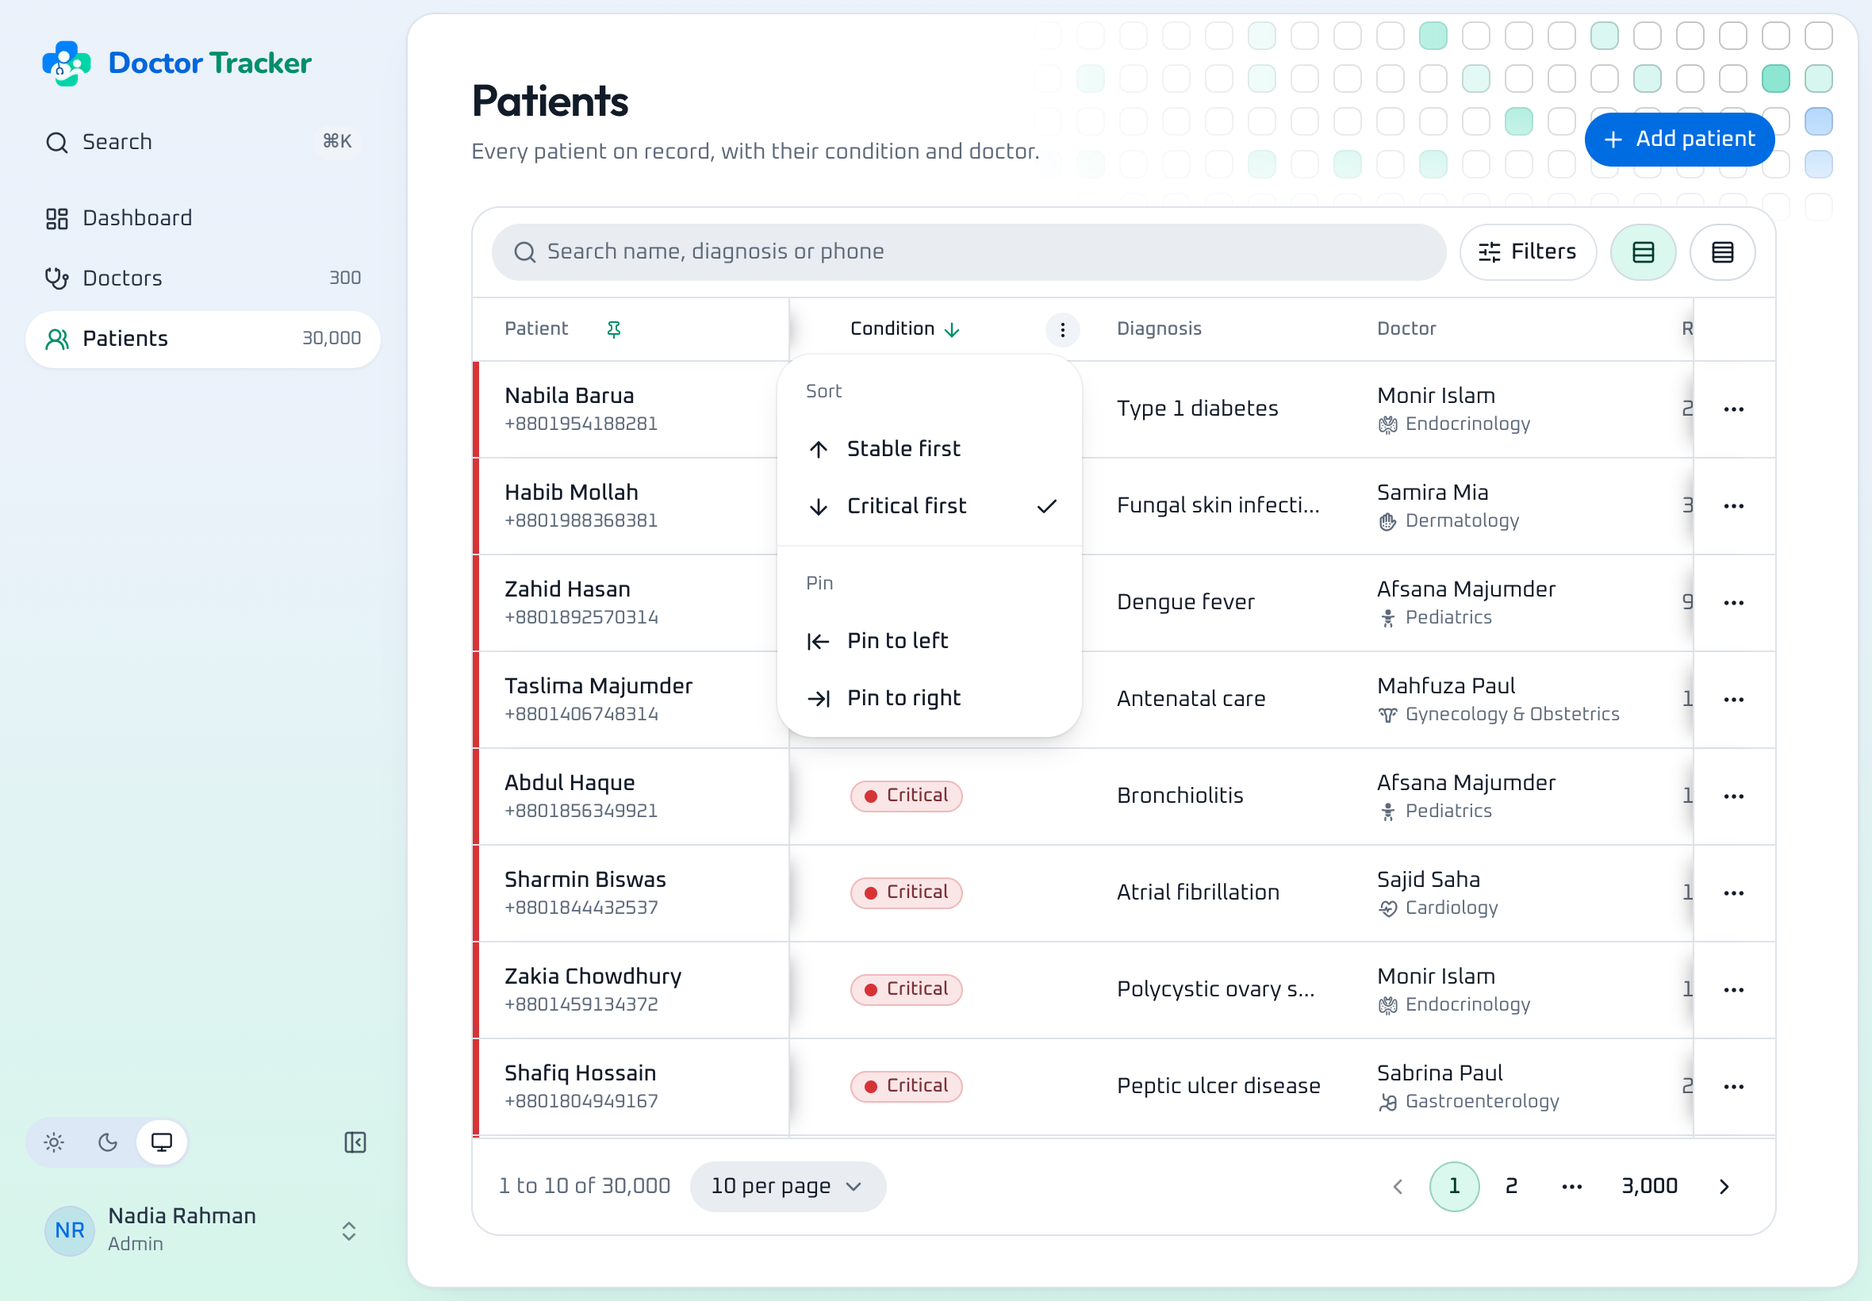
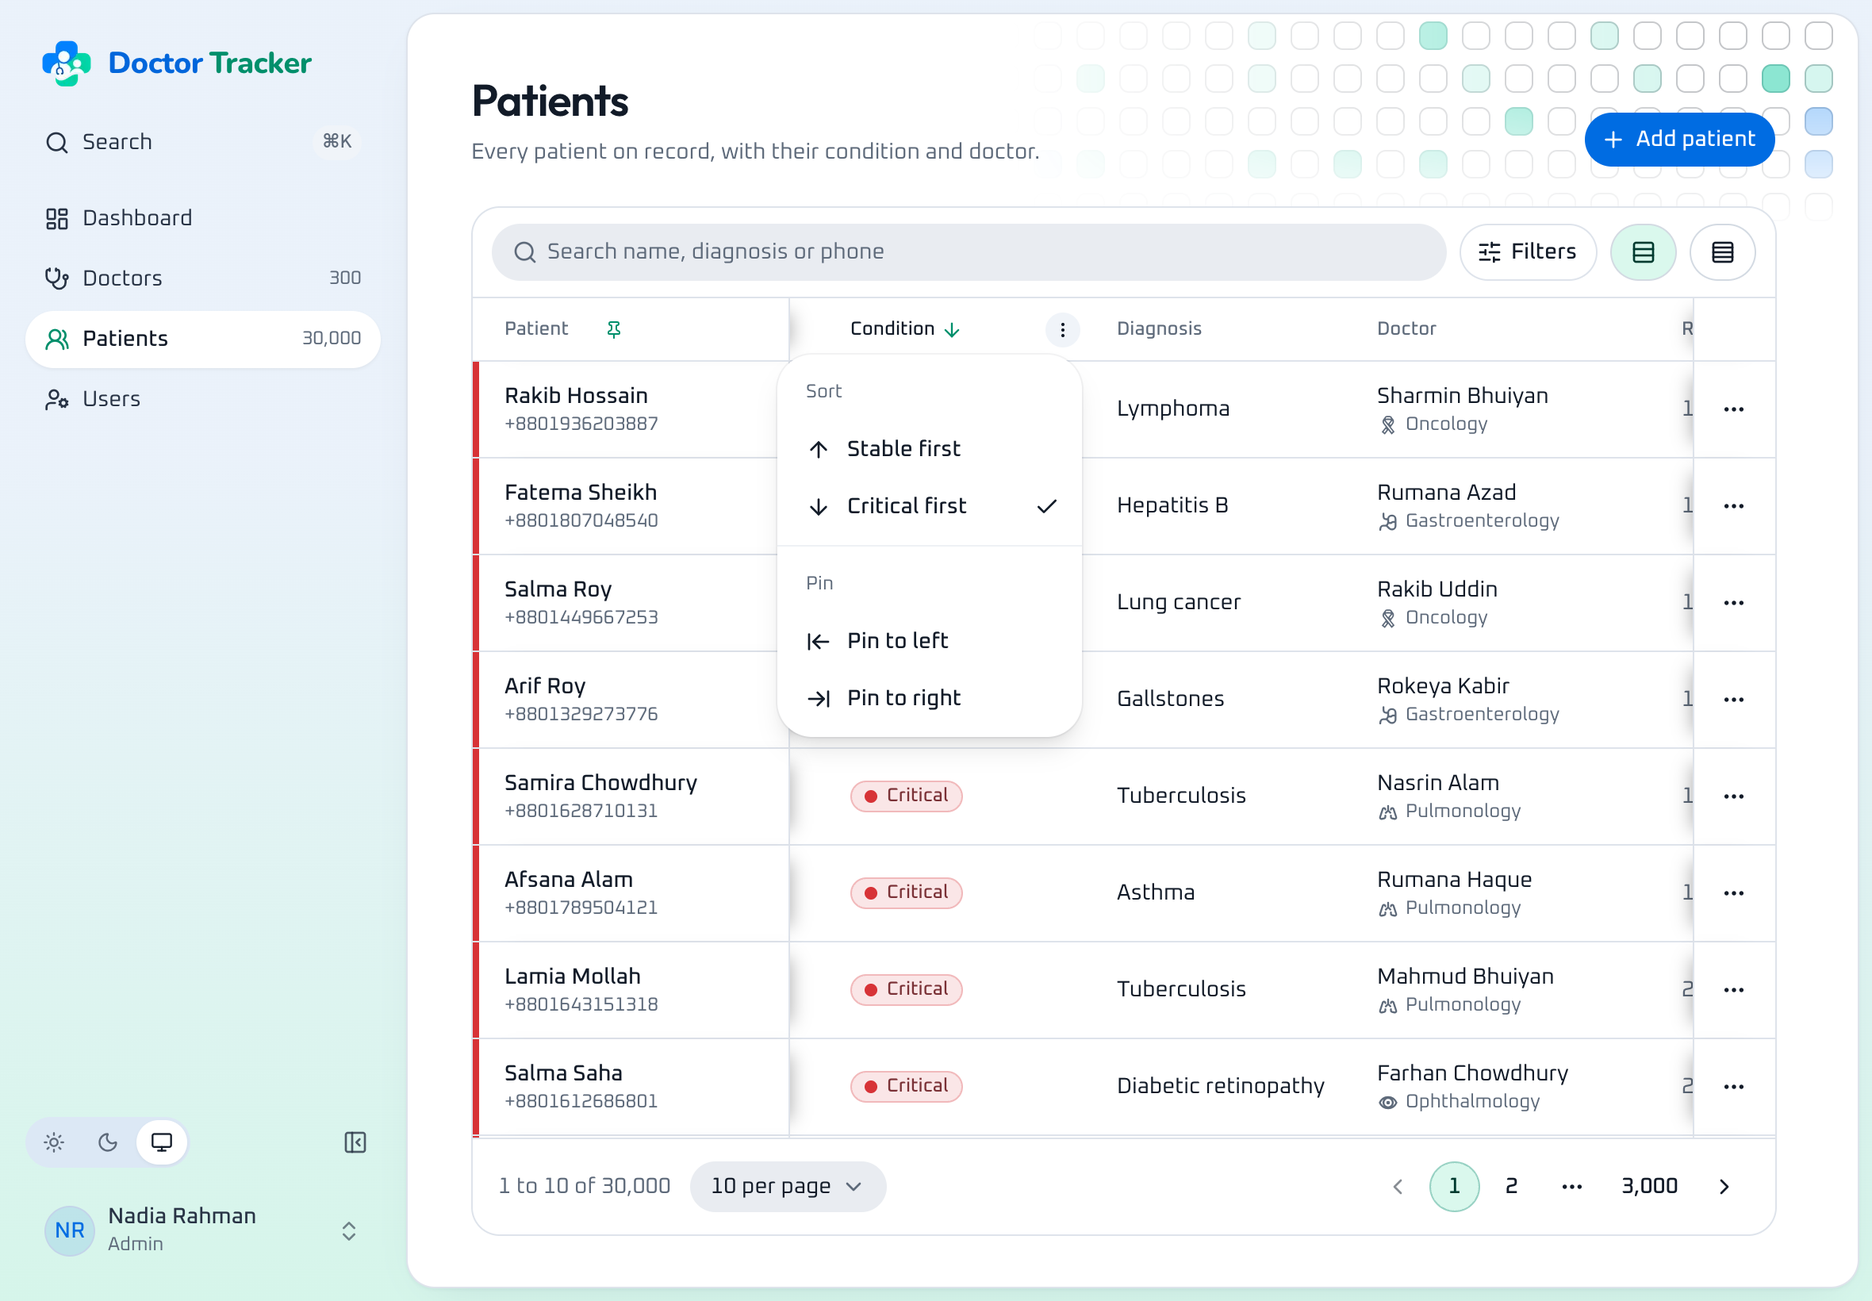
docs: cover user management, the coverage matrix, diagnoses, seasonal illness and what comes next, with new screenshots

diff --git a/README.md b/README.md
@@ -4,11 +4,12 @@ Doctor Tracker is an admin portal for clinics that need to see, at a glance, who
 
 | Area | What is there |
 | --- | --- |
-| Sign-in and access | Email and password against the API's sessions. Every page behind sign-in is protected. Admins can change records; viewers can only read, and the add, edit and delete controls are not rendered for them. |
+| Sign-in and access | Email and password against the API's sessions. Every page behind sign-in is protected. Admins can change records; viewers can only read, and the add, edit and delete controls are not rendered for them. There is no public sign-up and no demo account in the code. |
+| Users | For admins only: add a user with a role and an initial password, edit name and role, reset a password, deactivate, reactivate and delete. Everyone can change their own password. |
 | Doctors | Add, edit and delete. Search by name, hospital, phone or email. Filter by specialization, hospital and date added. Sort by name, specialization, hospital, patient count or date added. Each row shows the doctor's patient count beside its split by condition. |
 | A doctor's page | Contact details, three charts about that doctor's patients, and their patient list with its own search, filters and sorting. Add a patient under the doctor, edit one, or delete one from the list. |
 | Patients | Every patient, with search by name, diagnosis or phone, filters for condition, gender, doctor and registration date, sorting (including by severity), paging, edit and delete. |
-| Dashboard | Totals, patients per doctor, the condition breakdown, how evenly the load is spread, where the critical patients are, registrations over time and by weekday and hour, age and gender. |
+| Dashboard | Totals, patients per doctor, the condition breakdown, how evenly the load is spread, which hospitals lack which specialists, where the critical patients are, registrations over time and by weekday and hour with public holidays marked, the most common diagnoses, seasonal illness against last year, age and gender. |
 | Everywhere | A command palette on `⌘K` / `Ctrl K`, live doctor and patient counts in the sidebar, light and dark themes, and layouts for phone, tablet and desktop. |
 
 ## Stack
@@ -38,12 +39,12 @@ cp .env.example .env.local
 pnpm dev
 ```
 
-Open `http://localhost:3000` and sign in. The sign-in page has buttons that fill in either demo account:
+Open `http://localhost:3000` and sign in with the admin account the API's seed created from your own `SEED_ADMIN_EMAIL` and `SEED_ADMIN_PASSWORD`. No account or password is published in either repository; for the hosted demo they are in the submission email. From there, add anyone else on the Users page.
 
-| Role | Email | Password | Can do |
-| --- | --- | --- | --- |
-| Admin | `admin@doctortracker.dev` | `Admin@12345` | Everything |
-| Viewer | `viewer@doctortracker.dev` | `Viewer@12345` | Read only; add, edit and delete controls are hidden |
+| Role | Can do |
+| --- | --- |
+| Admin | Everything, including adding and managing users |
+| Viewer | Read only; add, edit and delete controls are hidden, and the Users page does not exist for them |
 
 ### Environment variables
 
@@ -108,9 +109,10 @@ src/
       dashboard/           Analytics
       doctors/             List, and [id] for a doctor's profile and patients
       patients/            List
+      users/               Accounts, for admins
   proxy.ts                 Redirects signed-out visitors
   features/
-    auth/ doctors/ patients/ dashboard/
+    auth/ doctors/ patients/ dashboard/ users/
                            Each holds its queries, URL params, form schema and components
     search/                Command palette: frame, lazily loaded body, search hook
   components/
@@ -165,7 +167,7 @@ After that the browser owns the data, so filtering and paging are client-side fe
 Three details made this work correctly:
 
 - **Session reads are kept out of the layout.** An early version looked up the user at the top of the signed-in layout. That made the entire shell wait for the session, left the prerendered page empty, and produced a server warning on every request. The user menu and the admin-only buttons now each sit in their own small boundary, and the shell is static again. The production build lists every signed-in route as partially prerendered.
-- **Time-zone-dependent requests stay in the browser.** A date filter means "the visitor's days", and the dashboard's daily chart and arrival heatmap group by the visitor's time zone, which the server cannot know. Those requests are skipped on the server and fetched after load, rather than being fetched twice with different parameters. On the dashboard they also wait until their section is within a screen of the viewport, so on a laptop screen the dashboard opens without a single API call from the browser, and the last two arrive as someone scrolls towards them.
+- **Time-zone-dependent requests stay in the browser.** A date filter means "the visitor's days", and the dashboard's daily chart, arrival heatmap and seasonal charts group by the visitor's time zone, which the server cannot know. Those requests are skipped on the server and fetched after load, rather than being fetched twice with different parameters. On the dashboard they also wait until their section is within a screen of the viewport, so opening it costs the browser one small request, for the sidebar's counts, and the rest arrive as someone scrolls towards them.
 - **Nothing shifts when the data lands.** The page panel reserves its scrollbar gutter, and skeletons are sized to the finished content, so a list that grows past the fold does not push the layout sideways.
 
 The trade-off is more moving parts than a client-only app: query keys must match exactly between server and browser, so both build their request through the same function (`toDoctorQuery`, `toPatientQuery`).
@@ -192,26 +194,51 @@ The trade-off is more moving parts than a client-only app: query keys must match
 **Charts**
 
 - **Each one answers a question, and says the answer.** The description under a chart's title is a sentence computed from the data, for example "Half of the 300 doctors have 63 patients or fewer, while the busiest tenth have 270 or more each." The chart is the evidence, not a puzzle.
-- **The form follows the question.** A distribution is a histogram with the median and 90th percentile marked. Parts of a whole are one segmented bar. A ranking is a sorted bar list. Two dimensions of time, weekday and hour, are a heatmap. There are no pie charts, because comparing angles is harder than comparing lengths.
+- **The form follows the question.** A distribution is a histogram with the median and 90th percentile marked. Parts of a whole are one segmented bar. A ranking is a sorted bar list. Two dimensions, weekday and hour or hospital and specialization, are a grid of cells. There are no pie charts, because comparing angles is harder than comparing lengths.
+- **Gaps are drawn, not left out.** The coverage matrix has a cell for every hospital and specialization. A pair with no doctor is a dashed empty cell, so a missing specialist is something you see rather than something you have to notice is absent. On a phone the grid would be unreadable, so each hospital becomes a strip of cells with its missing specializations named in words.
+- **A season is compared with itself.** The seasonal charts put this year's months over last year's for dengue, diarrhoeal disease and winter chest illness, with the usual season shaded. Only whole months are compared, the month still running is dashed, and the section states how much all intake grew, because a line that is up 20% in a clinic that grew 20% is not an outbreak.
+- **A dip has a reason.** Public holidays in Bangladesh are shaded on the daily registrations chart, with the average on those days against ordinary working days, so Eid is not read as a problem.
+- **Every mark leads somewhere.** A matrix cell opens the doctors at that hospital in that specialization, a diagnosis opens its patients, a bar opens the doctor. The dashboard is the way into the lists, not a poster.
 - **Colour means condition, and nothing else.** Green, violet, amber and red are reserved for the four patient conditions wherever they appear: badges, row edges, bars, form controls. Every other mark is one blue. The four colours were checked for separation under the common forms of colour blindness and for contrast in both themes, and no chart relies on colour alone.
 - **Comparable by design.** In the condition mix, critical is always the last segment, so the red ends line up down the rows, and a hairline on each bar marks the clinic-wide critical share to compare against.
-- **Usable without a pointer.** Marks have keyboard focus and tooltips, the heatmap and histograms move with the arrow keys from a single tab stop, and the condition mix and heatmap can each be opened as a plain table.
+- **Usable without a pointer.** Marks have keyboard focus and tooltips, the heatmap, matrix and histograms move with the arrow keys from a single tab stop, and the dense charts can each be opened as a plain table.
 - **Local conventions.** The heatmap's week starts on Sunday, as the working week does in Bangladesh, and hours are in the visitor's time zone.
 
 **Look and layout**
 
 - **The theme comes from the logo.** Its blue and mint are the two brand colours, each with a light-theme and a dark-theme shade chosen for contrast, and the wordmark is set in the same two colours.
-- **Blue acts, mint marks.** Each brand colour has one job. Blue is for actions, focus and data: buttons, links, focus rings and chart marks. Mint is for state: what is selected (a toggle, the current page, the active sort), what is highlighted (the item under the pointer in a menu or the command palette), filter chips and tags, and a rise in a trend. Mint is kept out of the charts on purpose: darkened enough to read on white, it lands on the green that means "stable".
+- **Blue acts, mint marks.** Each brand colour has one job. Blue is for actions, focus and data: buttons, links, focus rings and chart marks. Mint is for state: what is selected (a toggle, the current page, the active sort), what is highlighted (the item under the pointer in a menu or the command palette), and filter chips and tags. Mint is kept out of the charts on purpose: darkened enough to read on white, it lands on the green that means "stable".
 - **An inset shell.** The sidebar sits on a tinted plane that runs from the logo's blue at the top to its mint at the bottom, and the page is one rounded panel beside it, with no top bar on desktop. Search, theme and the collapse control live in the sidebar.
 - **An icon for every specialization.** All fifteen come from one family, Health Icons (CC0), in its outline set drawn for 24 px, so they match each other and sit beside the interface's own icons. Only the glyphs in use are in the code, not the whole library, and a specialization the set does not know falls back to a plain medical cross.
 - **Each page has its own header artwork**, drawn in SVG from the logo's cross: a heartbeat trace on the dashboard, a field of crosses for doctors, a ward board for patients. It is part of the prerendered shell and downloads nothing.
+- **The sign-in panel moves, quietly.** Rings leave the logo and drift outward like ripples, in a loop with no visible restart. It is CSS only, so the page stays static, and anyone who asks their system for reduced motion gets the still version.
 - **On phones** the sidebar becomes a drawer, and a top bar holds the menu button, the logo and the page's main action, so "Add patient" is always one tap away.
+
+**Accounts**
+
+- **No demo logins.** The sign-in page has no shortcut buttons and neither repository contains a password. The first admin comes from the API's environment, and every other account is made on the Users page.
+- **A password is handed over once.** Adding a user or resetting a password ends on a hand-over step: the email and the password, masked, each with a copy button, and a reminder that it will not be shown again. The password field can generate a strong one.
+- **You cannot lock yourself out.** On your own row, reset, deactivate and delete stay visible but disabled, each with its reason, and your own role cannot be changed. Because only another admin can remove an admin, one active admin always remains. The API enforces the same rules; the interface only explains them.
+- **Changes to access take effect at once.** Deactivating someone, changing their role or resetting their password ends their sessions, so their next request is refused rather than their next sign-in.
+- **The Users link costs the shell nothing.** It is rendered on the server in its own small boundary for admins, like the admin-only buttons, so the sidebar stays prerendered and nothing shifts when it arrives.
 
 **Smaller choices**
 
 - **Generated API client.** Request and response types come from the API's OpenAPI document, so the two repositories cannot drift apart silently. Form schemas are hand-written for friendly messages but checked against the generated types with `satisfies`.
 - **API errors land on fields.** A validation error from the API is shown under the input it refers to, and a duplicate email is reported on the email field.
 - **Missing records and failed loads have their own screens**, each with a way back, so a stale link never ends in a blank page.
+
+## What comes next
+
+The brief fixes the data model at doctors and the patients under them, and this project stays inside it. A clinic in Bangladesh has more moving parts, and this is how the model would grow to hold them:
+
+- **Serials and consultations.** A patient books a serial for a consultant's chamber, is seen, and usually comes back with reports. That is a `visits` collection (patient, doctor, chamber, serial, time, new or follow-up), and it unlocks the charts this dashboard cannot honestly draw yet: slot utilisation, no-shows, waiting time, the booked-to-consulted funnel.
+- **Orders and results.** Prescriptions and diagnostic tests hang off a visit, and the follow-up visit closes the loop, which makes follow-up adherence a number.
+- **Admissions.** Condition today is one field on the patient. With admissions (ward, bed, ICU, NICU or HDU, admitted and discharged times), "critical" stops being a label and becomes occupancy per unit, the number a hospital actually runs on.
+- **Chambers.** Most consultants sit at two or three hospitals. A doctor would have several chambers instead of one hospital field, and coverage would count chamber hours, not heads.
+- **Where patients come from.** A district on the patient record is enough for a map of who travels to Dhaka or Chattogram, and for which specialty.
+
+None of this changes what is already here: each new collection points at the same doctors and patients, and the lists, search and indexes carry over.
 
 ## Visual evidence
 
@@ -221,35 +248,43 @@ The trade-off is more moving parts than a client-only app: query keys must match
 | --- | --- |
 | ![Patients in care, split by condition, with totals](docs/screenshots/desktop-dashboard.png) | ![Histogram of patients per doctor beside the busiest doctors](docs/screenshots/desktop-dashboard-workload.png) |
 
-| Arrivals | Critical patients, dark theme |
+| Specialist coverage | Critical patients, dark theme |
 | --- | --- |
-| ![Daily registrations and a weekday by hour heatmap](docs/screenshots/desktop-dashboard-arrivals.png) | ![Condition mix by specialization in the dark theme](docs/screenshots/desktop-dashboard-dark.png) |
+| ![Hospitals by specialization, with empty cells where a hospital has no such doctor](docs/screenshots/desktop-dashboard-coverage.png) | ![Condition mix by specialization in the dark theme](docs/screenshots/desktop-dashboard-dark.png) |
 
-| Doctors, sorted by patients | Doctor profile |
+| Arrivals, with holidays shaded | Seasonal illness |
 | --- | --- |
-| ![Doctors list with patient counts and condition bars](docs/screenshots/desktop-doctors.png) | ![A doctor's charts and patient list](docs/screenshots/desktop-doctor-profile.png) |
+| ![Daily registrations with a public holiday shaded, and a weekday by hour heatmap](docs/screenshots/desktop-dashboard-arrivals.png) | ![Dengue, diarrhoeal and winter chest illness, this year against last](docs/screenshots/desktop-dashboard-seasonal.png) |
 
-| Patients, critical first | Filter sheet |
+| What we treat | Doctor profile |
 | --- | --- |
-| ![Patients list sorted by severity with coloured row edges](docs/screenshots/desktop-patients.png) | ![Filters in a sheet beside the list, with chips for the active ones](docs/screenshots/desktop-filters.png) |
+| ![Most common diagnoses and the ones arriving now](docs/screenshots/desktop-dashboard-diagnoses.png) | ![A doctor's charts, diagnoses and patient list](docs/screenshots/desktop-doctor-profile.png) |
 
-| Sorting and pinning | Right-click menu |
+| Doctors, sorted by patients | Patients, critical first |
 | --- | --- |
-| ![Column menu with sort and pin options over a table scrolled sideways](docs/screenshots/desktop-patients-pinned.png) | ![A row's actions opened by right click](docs/screenshots/desktop-patients-context-menu.png) |
+| ![Doctors list with specialization icons, patient counts and condition bars](docs/screenshots/desktop-doctors.png) | ![Patients list sorted by severity with coloured row edges](docs/screenshots/desktop-patients.png) |
 
-| Command palette | Patients, dark theme |
+| Filter sheet | Sorting and pinning |
 | --- | --- |
-| ![Searching doctors and patients from the command palette](docs/screenshots/desktop-command-palette.png) | ![Critical patients sorted by age in the dark theme](docs/screenshots/desktop-patients-dark.png) |
+| ![Filters in a sheet beside the list, with chips for the active ones](docs/screenshots/desktop-filters.png) | ![Column menu with sort and pin options over a table scrolled sideways](docs/screenshots/desktop-patients-pinned.png) |
 
-| Sign in |
-| --- |
-| ![Sign-in page with demo accounts](docs/screenshots/desktop-login.png) |
+| Right-click menu | Command palette |
+| --- | --- |
+| ![A row's actions opened by right click](docs/screenshots/desktop-patients-context-menu.png) | ![Searching doctors and patients from the command palette](docs/screenshots/desktop-command-palette.png) |
+
+| Users | Add a user |
+| --- | --- |
+| ![The users page, for admins](docs/screenshots/desktop-users.png) | ![Adding a user with a role and a generated password](docs/screenshots/desktop-users-add.png) |
+
+| Patients, dark theme | Sign in |
+| --- | --- |
+| ![Critical patients sorted by age in the dark theme](docs/screenshots/desktop-patients-dark.png) | ![Sign-in page](docs/screenshots/desktop-login.png) |
 
 ### Mobile
 
-| Dashboard | Condition mix | Arrival heatmap | Navigation |
+| Dashboard | Specialist coverage | Arrival heatmap | Navigation |
 | --- | --- | --- | --- |
-| ![Dashboard on a phone](docs/screenshots/mobile-dashboard.png) | ![Condition mix on a phone](docs/screenshots/mobile-condition-mix.png) | ![Heatmap turned on its side for a phone](docs/screenshots/mobile-heatmap.png) | ![Navigation drawer on a phone](docs/screenshots/mobile-navigation.png) |
+| ![Dashboard on a phone](docs/screenshots/mobile-dashboard.png) | ![Coverage as one strip per hospital on a phone](docs/screenshots/mobile-coverage.png) | ![Heatmap turned on its side for a phone](docs/screenshots/mobile-heatmap.png) | ![Navigation drawer on a phone](docs/screenshots/mobile-navigation.png) |
 
 | Doctors | Patients | Filters | Doctor profile |
 | --- | --- | --- | --- |
